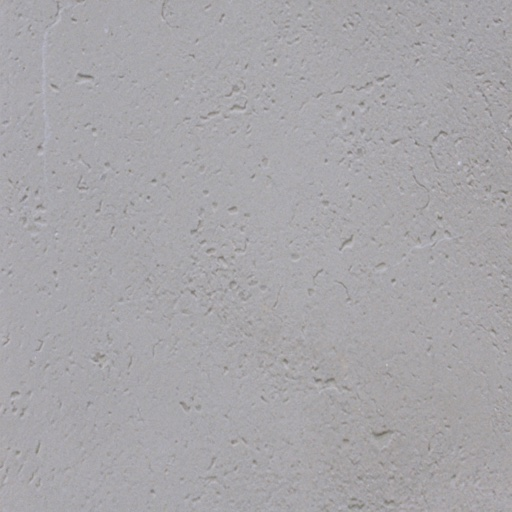
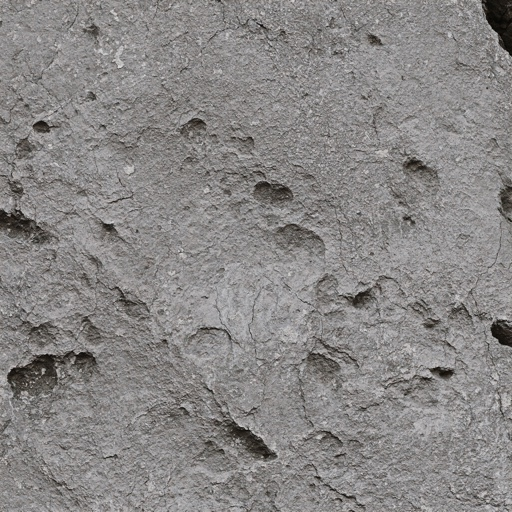
fix: the stone was invisible, not absent
Sarthak's diagnosis, and it was right: the sky and water look real
because they came from photographs, while the ring and piers were
procedural geometry wearing a texture that never showed.

The texture WAS applied. ExtrudeGeometry writes UVs in WORLD
coordinates, and the arch spans about 84 units, so a repeat of 2 tiled
the stone roughly eighty times across every block — compressed into
noise below the pixel, which is why it read as smooth grey plastic
however good the source was. A repeat near 1/9 puts one tile every nine
world units, the scale a rock face actually is.

A torus needs entirely different tiling from an extruded shape — 0-1
UVs wrapped around and through, against world coordinates — so the
orders take their own instance. One texture cannot serve both, which is
why the bore stayed moulded after the voussoirs stopped being.

New surface: heavily eroded megalithic granite rather than smooth
limestone, with normals at more than double the strength. Timid relief
on a stone whose erosion is centimetres deep is indistinguishable from
none.

And no two stones alike. Each voussoir takes its own radial thickness,
depth, arc share and tone. Identical wedges are what made this read as a
moulding rather than as masonry — a real arch is cut from stones that
were never quite the same size.

Adds ?closeup=1, which parks the camera at the aperture. The flaw was
invisible at composition distance and obvious from two metres.

diff --git a/src/world/array/Aperture.tsx b/src/world/array/Aperture.tsx
@@ -2,9 +2,10 @@
 
 import { useMemo, useRef } from 'react'
 import { useFrame, useThree } from '@react-three/fiber'
-import { DoubleSide, MathUtils, RepeatWrapping, type Mesh, type Texture } from 'three'
+import { DoubleSide, MathUtils, RepeatWrapping, Vector2, type Mesh, type Texture } from 'three'
 import type { Palette } from '../atmosphere/palette'
 import { voussoir as voussoirGeometry } from '../geometry/arch'
+import { createRng, range } from '@/lib/rng'
 
 /**
  * The aperture — the threshold to World 2.
@@ -39,15 +40,47 @@ export function Aperture({
   const glow = useRef<Mesh>(null)
   const maxAniso = useThree((s) => s.gl.capabilities.getMaxAnisotropy())
 
-  const map = useMemo(() => {
+  /*
+   * The orders need their OWN tiling.
+   *
+   * A torus carries 0-1 UVs wrapped around and through it, whereas
+   * ExtrudeGeometry writes world coordinates. One texture instance cannot
+   * serve both — at the blocks' repeat the rings came out glass-smooth, which
+   * is why the bore still looked moulded after the voussoirs stopped.
+   */
+  const ringMap = useMemo(() => {
     if (!stone) return null
     const t = stone.clone()
     t.wrapS = t.wrapT = RepeatWrapping
-    t.repeat.set(2, 2)
+    // Many times around the ring, a few times through its section.
+    t.repeat.set(26, 3)
     t.anisotropy = maxAniso
     t.needsUpdate = true
     return t
   }, [stone, maxAniso])
+
+  const map = useMemo(() => {
+    if (!stone) return null
+    const t = stone.clone()
+    t.wrapS = t.wrapT = RepeatWrapping
+    /*
+     * ExtrudeGeometry writes UVs in WORLD coordinates.
+     *
+     * The shape spans about 84 units across, so a repeat of 2 tiled the stone
+     * roughly eighty times over each block — compressed into invisible noise,
+     * which is why the arch read as smooth grey plastic however good the
+     * texture was. A repeat near 1/9 puts one tile every nine world units,
+     * which is the scale a hand-sized rock face actually is.
+     */
+    t.repeat.set(0.11, 0.11)
+    t.anisotropy = maxAniso
+    t.needsUpdate = true
+    return t
+  }, [stone, maxAniso])
+
+  // Strong relief. On a megalithic block the erosion is centimetres deep, and
+  // a timid normal map is indistinguishable from none.
+  const normalScale = useMemo(() => new Vector2(1.8, 1.8), [])
 
   /** Wedge blocks around the outer ring. */
   // FEWER, BIGGER blocks.
@@ -65,9 +98,26 @@ export function Aperture({
     const joint = step * 0.11
     const innerR = radius - blockThickness / 2
     const outerR = radius + blockThickness / 2
-    return Array.from({ length: VOUSSOIRS }, (_, i) =>
-      voussoirGeometry(innerR, outerR, i * step + joint / 2, step - joint, blockDepth),
-    )
+    /*
+     * No two stones alike.
+     *
+     * Identical wedges are what made this read as a moulding rather than as
+     * masonry. Each block now takes its own radial thickness, its own depth
+     * and a slightly different share of the arc, seeded per index so the ring
+     * is stable across reloads — a real arch is cut from stones that were
+     * never quite the same size.
+     */
+    const rng = createRng(0x2b17f3)
+    return Array.from({ length: VOUSSOIRS }, (_, i) => {
+      const outer = outerR * range(rng, 0.965, 1.035)
+      const inner = innerR * range(rng, 0.97, 1.02)
+      const d = blockDepth * range(rng, 0.88, 1.14)
+      const shrink = range(rng, 0.94, 1.0)
+      return {
+        geo: voussoirGeometry(inner, outer, i * step + joint / 2, (step - joint) * shrink, d),
+        tint: range(rng, -0.1, 0.08),
+      }
+    })
   }, [radius, blockThickness, blockDepth])
 
   /**
@@ -109,18 +159,22 @@ export function Aperture({
 
   const stoneProps = {
     color: palette.monolith,
-    roughness: 0.88,
+    roughness: 0.92,
     metalness: 0,
-    envMapIntensity: 0.4,
+    envMapIntensity: 0.35,
     normalMap: map,
+    normalScale: normalScale,
   }
 
   return (
     <group position={[0, radius * 1.06, -150]}>
       {/* Outer ring of voussoirs — true arc segments, not boxes. */}
-      {voussoirs.map((geo, i) => (
-        <mesh key={i} geometry={geo}>
-          <meshStandardMaterial {...stoneProps} />
+      {voussoirs.map((v, i) => (
+        <mesh key={i} geometry={v.geo}>
+          <meshStandardMaterial
+            {...stoneProps}
+            color={palette.monolith.clone().offsetHSL(0, 0, v.tint)}
+          />
         </mesh>
       ))}
 
@@ -133,7 +187,8 @@ export function Aperture({
             roughness={o.machined ? 0.42 : 0.8}
             metalness={o.machined ? 0.55 : 0}
             envMapIntensity={o.machined ? 0.9 : 0.4}
-            normalMap={o.machined ? null : map}
+            normalMap={o.machined ? null : ringMap}
+            normalScale={normalScale}
           />
         </mesh>
       ))}

diff --git a/src/lib/flags.ts b/src/lib/flags.ts
@@ -22,6 +22,8 @@ export interface Flags {
   noPost: boolean
   /** Run the frame-to-frame luminance probe. Costs a pipeline stall. */
   probe: boolean
+  /** Park the camera close to the aperture, for inspecting detail. */
+  closeup: boolean
   /** Drop the concrete surface map — isolates texture shimmer from edge crawl. */
   noTex: boolean
   /** Drop the photographic sky plate, leaving the procedural gradient. */
@@ -41,6 +43,7 @@ const EMPTY: Flags = {
   noReflect: false,
   noPost: false,
   probe: false,
+  closeup: false,
   noTex: false,
   noPlate: false,
   noUi: false,
@@ -59,6 +62,7 @@ export function readFlags(): Flags {
     noReflect: plain || q.has('noreflect'),
     noPost: plain || q.has('nopost'),
     probe: q.has('flicker'),
+    closeup: q.has('closeup'),
     noTex: plain || q.has('notex'),
     noPlate: plain || q.has('noplate'),
     noUi: q.has('noui'),

diff --git a/src/world/camera/IdleRig.tsx b/src/world/camera/IdleRig.tsx
@@ -53,6 +53,7 @@ export function IdleRig() {
   const reducedMotion = useScene((s) => s.reducedMotion)
   const freelook = useScene((s) => s.freelook)
   const still = useScene((s) => s.flags.still)
+  const closeup = useScene((s) => s.flags.closeup)
 
   const aim = useRef(TARGET.clone())
   const desired = useRef(TARGET.clone())
@@ -75,6 +76,13 @@ export function IdleRig() {
       camera.lookAt(TARGET)
       initialized.current = true
       wasFreelook.current = false
+    }
+
+    // Inspection framing: close enough to judge whether the stonework holds up.
+    if (closeup) {
+      camera.position.set(6, 44, -66)
+      camera.lookAt(0, 44, -150)
+      return
     }
 
     if (reducedMotion || still) {

diff --git a/src/world/array/Monolith.tsx b/src/world/array/Monolith.tsx
@@ -112,7 +112,7 @@ function MonolithImpl({
   const vary = useMemo(() => {
     const rng = createRng(Math.round(width * 977 + height * 131 + depth * 17))
     return {
-      relief: range(rng, 1.15, 1.6),
+      relief: range(rng, 1.9, 2.6),
       tint: range(rng, -0.11, 0.09),
       rough: range(rng, -0.05, 0.06),
     }

diff --git a/src/world/materials/stone.ts b/src/world/materials/stone.ts
@@ -15,7 +15,7 @@ import { RepeatWrapping, type Texture } from 'three'
  */
 
 /** Tile size in world units. One repeat covers roughly this much surface. */
-const TILE = 9
+const TILE = 7
 
 export function tileStone(tex: Texture, worldWidth: number, worldHeight: number, aniso: number) {
   const t = tex.clone()

diff --git a/src/store/scene.ts b/src/store/scene.ts
@@ -107,6 +107,7 @@ export const useScene = create<SceneState>((set) => ({
     noReflect: false,
     noPost: false,
     probe: false,
+    closeup: false,
     noTex: false,
     noPlate: false,
     noUi: false,
